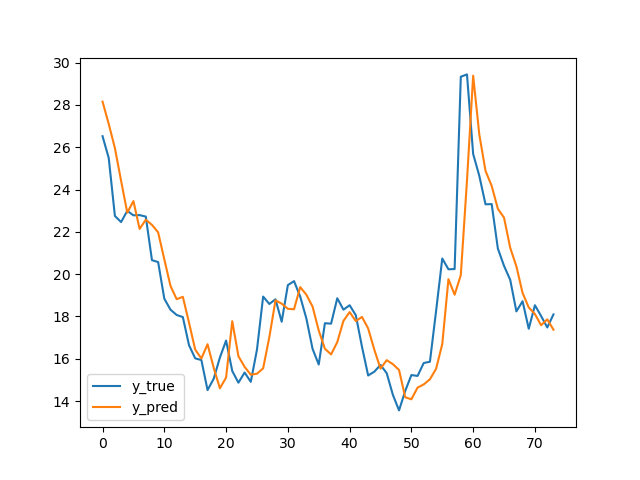
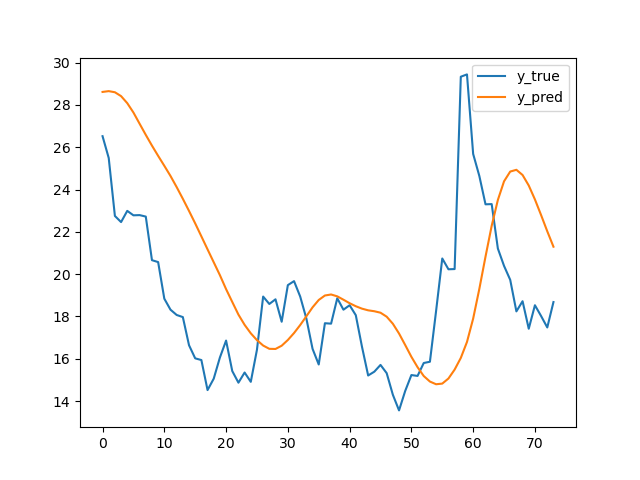
comet experiment working

diff --git a/models/lstm.py b/models/lstm.py
@@ -1,18 +1,50 @@
+import os
+from comet_ml import Experiment
+
 import pandas as pd
 import numpy as np
 import keras
 import matplotlib.pyplot as plt
 from sklearn.preprocessing import MinMaxScaler
 from pandas.plotting import register_matplotlib_converters
-register_matplotlib_converters()
+# register_matplotlib_converters()
 from keras.preprocessing.sequence import TimeseriesGenerator
 from keras.models import Sequential
-from keras.layers import Dense
-from keras.layers import LSTM
+from keras.layers import Dense, LSTM, Dropout
+from dotenv import load_dotenv
 import warnings
 warnings.filterwarnings('ignore')
 
-df = pd.read_csv('dataset/training_data.csv')
+
+# connect to comet to record experiments
+load_dotenv()
+experiment = Experiment(
+    api_key=os.getenv('comet_api_key'),
+    project_name=os.getenv('comet_project_name'),
+    workspace=os.getenv('comet_workspace'),
+)
+
+"""Global variables"""
+EPOCHS = 20
+N_INPUT = 30  # trailing trading day count
+BATCH_SIZE = 32
+FILENAME = 'dataset/training_data.csv'
+# FILENAME = 'dataset/daily_stock_price_data.csv'
+
+hyperparams = {
+    FILENAME,
+    EPOCHS,
+    N_INPUT,
+    BATCH_SIZE,
+}
+
+# log hyperparameters
+experiment.log_parameter("hyperparameters", hyperparams)
+print("connection succesful")
+
+# read in data
+df = pd.read_csv(FILENAME)
+
 
 titles = [
     'neg',
@@ -53,7 +85,6 @@ colors = [
 
 date_time_key = "Date"
 
-################################################
 
 def show_raw_visualization(data):
     time_data = data[date_time_key]
@@ -74,7 +105,8 @@ def show_raw_visualization(data):
         )
         ax.legend([titles[i]])
     plt.tight_layout()
-    plt.savefig('figures/periodicity_sentiment_price_data.png')
+    periodicity = plt.savefig('figures/periodicity_sentiment_price_data.png')
+    experiment.log_figure(periodicity)
     # plt.show()
 
 
@@ -87,7 +119,8 @@ def show_heatmap(data):
     cb = plt.colorbar()
     cb.ax.tick_params(labelsize=14)
     plt.title("Feature Correlation Heatmap", fontsize=14)
-    plt.savefig('figures/correlation_heatmap.png')
+    heatmap = plt.savefig('figures/correlation_heatmap.png')
+    experiment.log_figure(heatmap)
     # plt.show()
 
 
@@ -96,58 +129,92 @@ def time_series_prediction(df):
     print(df.head())
     y_col = 'Close' # define y variable, i.e., what we want to predict
 
-    test_size = int(len(df) * 0.05) # here I ask that the test data will be 10% (0.1) of the entire data
-    train = df.iloc[:-test_size, :].copy() # the copy() here is important, it will prevent us from getting: SettingWithCopyWarning: A value is trying to be set on a copy of a slice from a DataFrame.
-    # Try using .loc[row_index,col_indexer] = value instead
+    test_size = int(len(df) * 0.05)
+    train = df.iloc[:-test_size, :].copy()
     test = df.iloc[-test_size:, :].copy()
 
-    X_train = train.drop(y_col,axis=1).copy()
-    y_train = train[[y_col]].copy() # the double brakets here are to keep the y in dataframe format, otherwise it will be pandas Series
+    X_train = train.drop(y_col, axis=1).copy()
+    y_train = train[[y_col]].copy()
 
-    Xscaler = MinMaxScaler(feature_range=(0, 1)) # scale so that all the X data will range from 0 to 1
+    Xscaler = MinMaxScaler(feature_range=(0, 1))
     Xscaler.fit(X_train)
     scaled_X_train = Xscaler.transform(X_train)
     Yscaler = MinMaxScaler(feature_range=(0, 1))
     Yscaler.fit(y_train)
     scaled_y_train = Yscaler.transform(y_train)
-    scaled_y_train = scaled_y_train.reshape(-1) # remove the second dimention from y so the shape changes from (n,1) to (n,)
+    scaled_y_train = scaled_y_train.reshape(-1)
 
     scaled_y_train = np.insert(scaled_y_train, 0, 0)
     scaled_y_train = np.delete(scaled_y_train, -1)
 
-    n_input = 30 #how many samples/rows/timesteps to look in the past in order to forecast the next sample
-    n_features= X_train.shape[1] # how many predictors/Xs/features we have to predict y
-    b_size = 32 # Number of timeseries samples in each batch
+    n_features = X_train.shape[1]
     generator = TimeseriesGenerator(
         scaled_X_train,
         scaled_y_train,
-        length=n_input,
-        batch_size=b_size
+        length=N_INPUT,
+        batch_size=BATCH_SIZE
     )
 
-    model = Sequential()
-    model.add(LSTM(150, activation='relu', input_shape=(n_input, n_features)))
-    model.add(Dense(1))
-    model.compile(optimizer='adam', loss='mse')
+    model = Sequential(
+        [
+            LSTM(
+                units=50,
+                activation='relu',
+                return_sequences=True,
+                input_shape=(N_INPUT, n_features)
+            ),
+            Dropout(0.1),
+            LSTM(
+                units=60,
+                activation='relu',
+                return_sequences=True,
+            ),
+            Dropout(0.09),
+            LSTM(
+                units=70,
+                activation='relu',
+                return_sequences=True,
+            ),
+            Dropout(0.08),
+            LSTM(
+                units=80,
+                activation='relu',
+            ),
+            Dropout(0.07),
+            Dense(
+                units=1
+            )
+        ]
+    )
+
     print(model.summary())
 
-    model.fit_generator(generator, epochs=50)
+    model.compile(
+        optimizer='adam',
+        loss='mean_squared_error',
+    )
+
+    model.fit_generator(generator, epochs=EPOCHS)
 
     loss_per_epoch = model.history.history['loss']
     plt.plot(range(len(loss_per_epoch)), loss_per_epoch)
-    # plt.savefig('figures/loss_curve.png')
+    loss_curve = plt.savefig('figures/loss_curve.png')
+    experiment.log_figure(loss_curve)
+    experiment.log_metric("loss", loss_per_epoch)
     # plt.show()
 
-    X_test = test.drop(y_col,axis=1).copy()
+    X_test = test.drop(y_col, axis=1).copy()
     scaled_X_test = Xscaler.transform(X_test)
-    test_generator = TimeseriesGenerator(scaled_X_test, np.zeros(len(X_test)), length=n_input, batch_size=b_size)
+    test_generator = TimeseriesGenerator(scaled_X_test, np.zeros(len(X_test)), length=N_INPUT, batch_size=BATCH_SIZE)
 
     y_pred_scaled = model.predict(test_generator)
     y_pred = Yscaler.inverse_transform(y_pred_scaled)
-    results = pd.DataFrame({'y_true':test[y_col].values[n_input:], 'y_pred': y_pred.ravel()})
+    results = pd.DataFrame({'y_true': test[y_col].values[N_INPUT:], 'y_pred': y_pred.ravel()})
 
+    plt.figure(figsize=(14, 5))
     results.plot()
-    plt.savefig('figures/time_series_predictions.png')
+    time_series_img = plt.savefig('figures/time_series_predictions.png')
+    experiment.log_figure(time_series_img)
     # plt.show()
 
 

diff --git a/scripts/training_join.py b/scripts/training_join.py
@@ -35,3 +35,4 @@ def aggregate_sentiment_scores(subreddit:str):
         ]
     )
     training_df.to_csv('dataset/training_data.csv')
+
